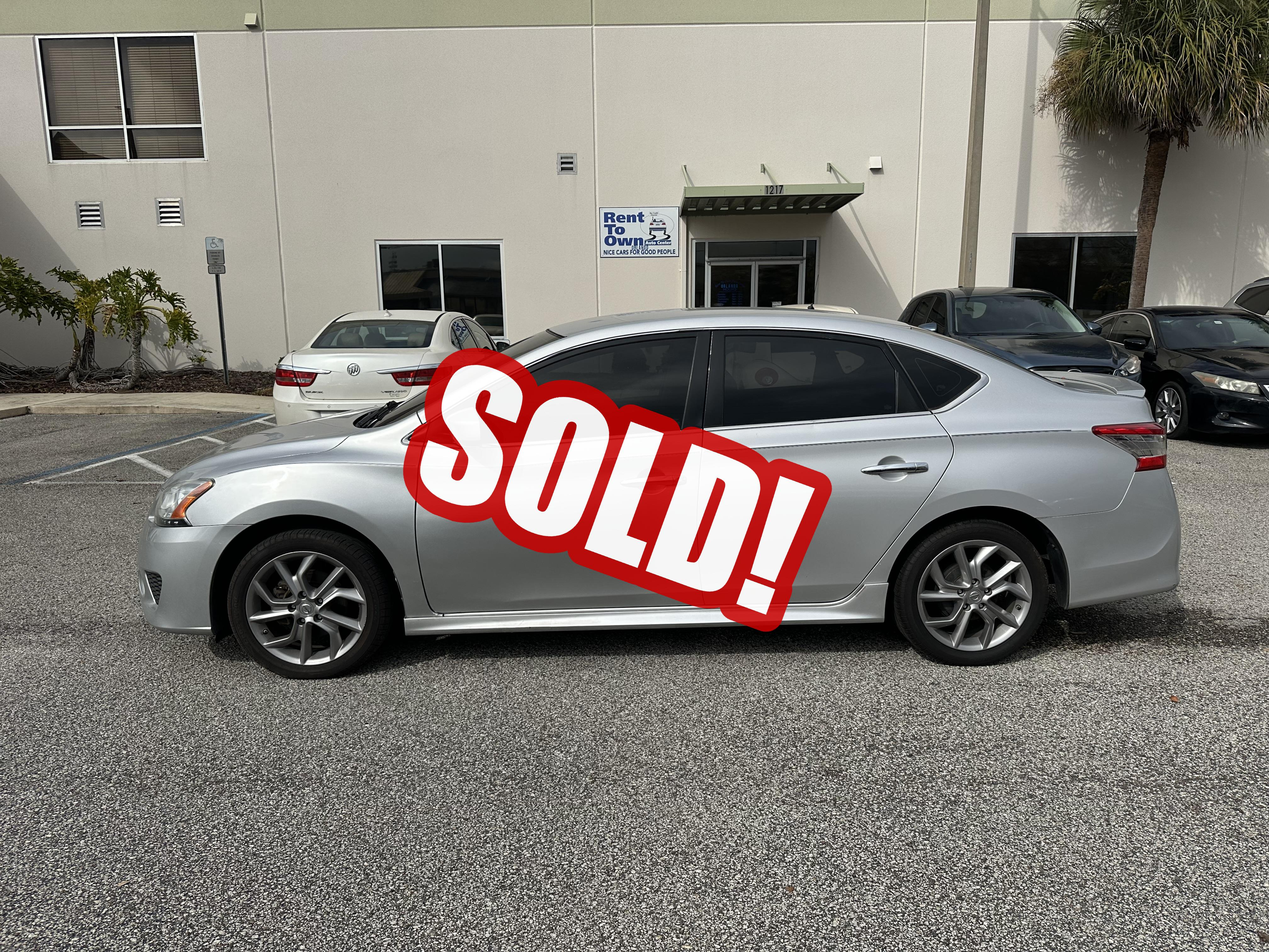
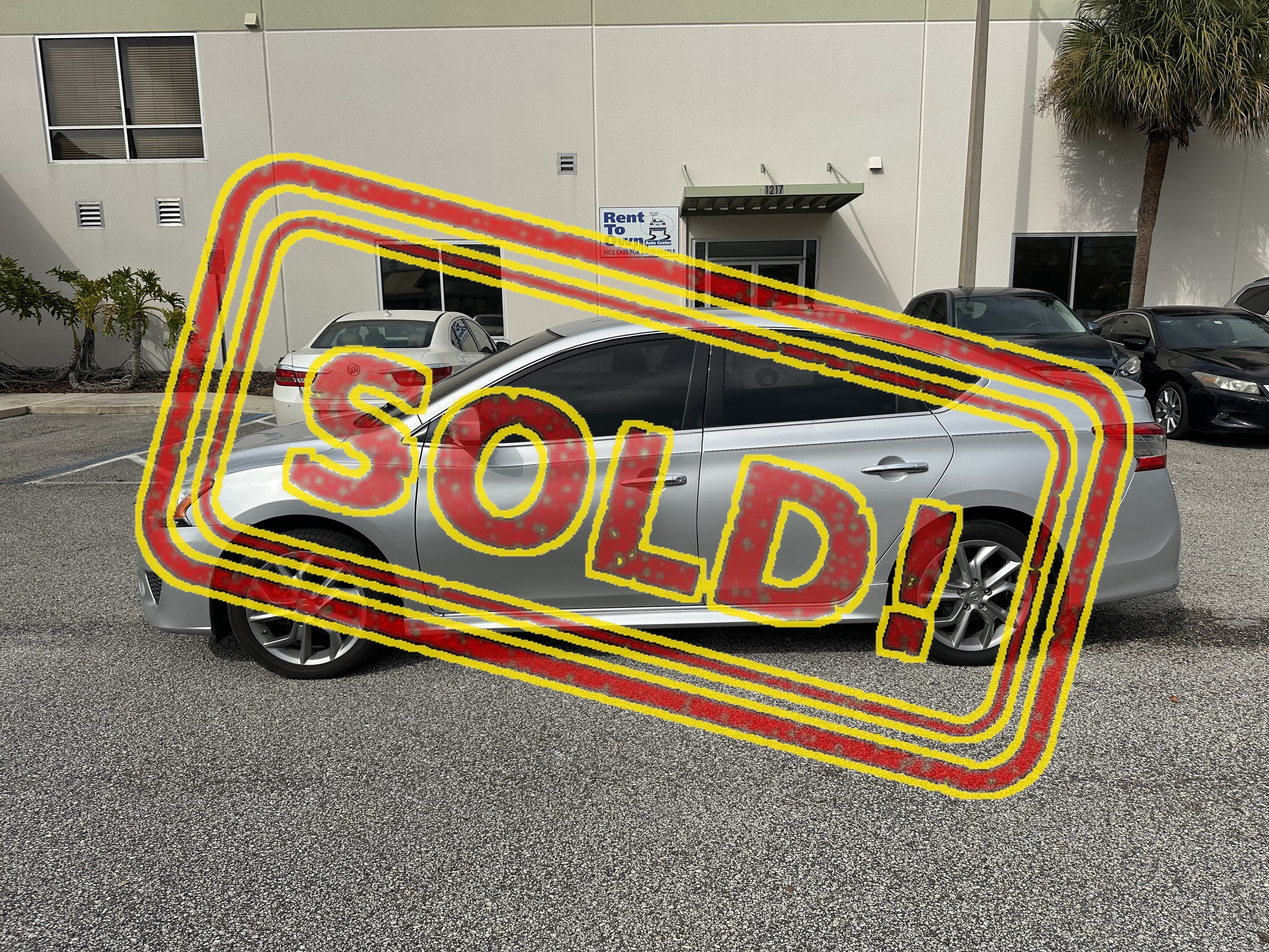
SOLDRTO: mark RTO9041 as sold

Changed region(s): [[0.0938, 0.1554, 0.9062, 0.8393]]

diff --git a/orlando.html b/orlando.html
@@ -499,10 +499,10 @@
           
           <div class="col-md-4 mb-4">
         <div class="card">
-          <img src="./images/cars/9041.jpeg" class="card-img-top" alt="..." />
+          <img src="./images/cars/sold/9041.jpeg" class="card-img-top" alt="..." />
           <div class="card-body">
             <h5 class="card-title">2013 Nissan Sentra  </h5>
-            <p class="card-text">RTO9041 <span style="color:red "> RTO with $750 DOWN! OR Cash Sale $4995 </span> </p>
+            <p class="card-text">RTO9041 <span style="color:red "> SOLD! </span> </p>
             <!-- <a href="#" class="btn btn-primary">View Details</a>  -->
           </div>
         </div>
